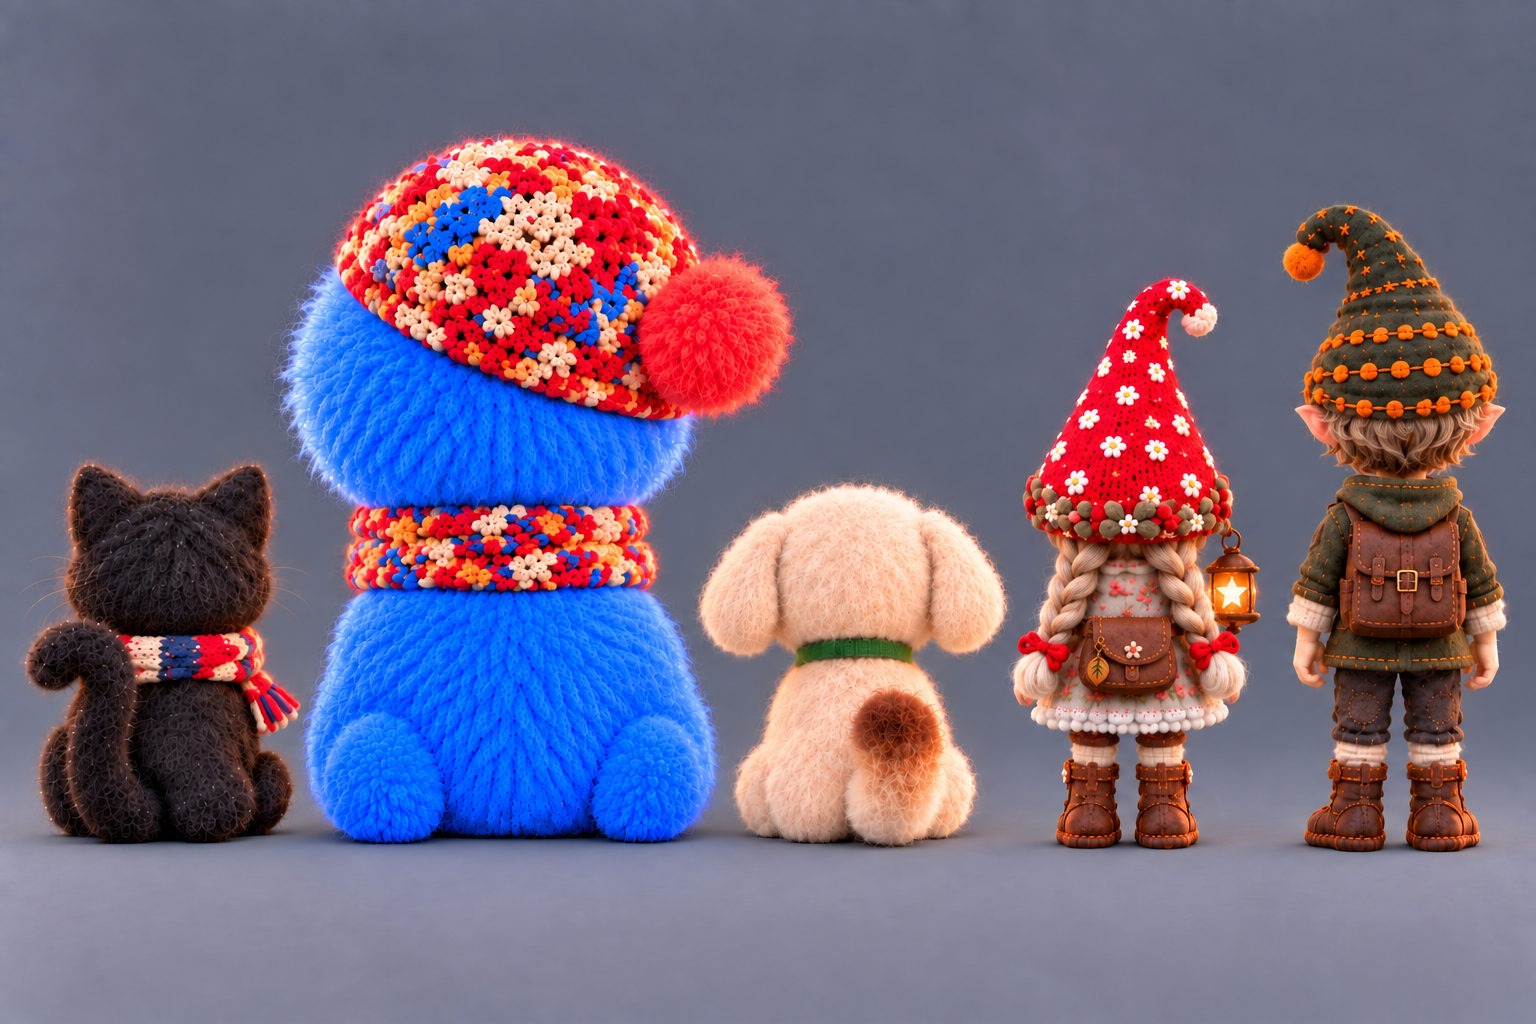
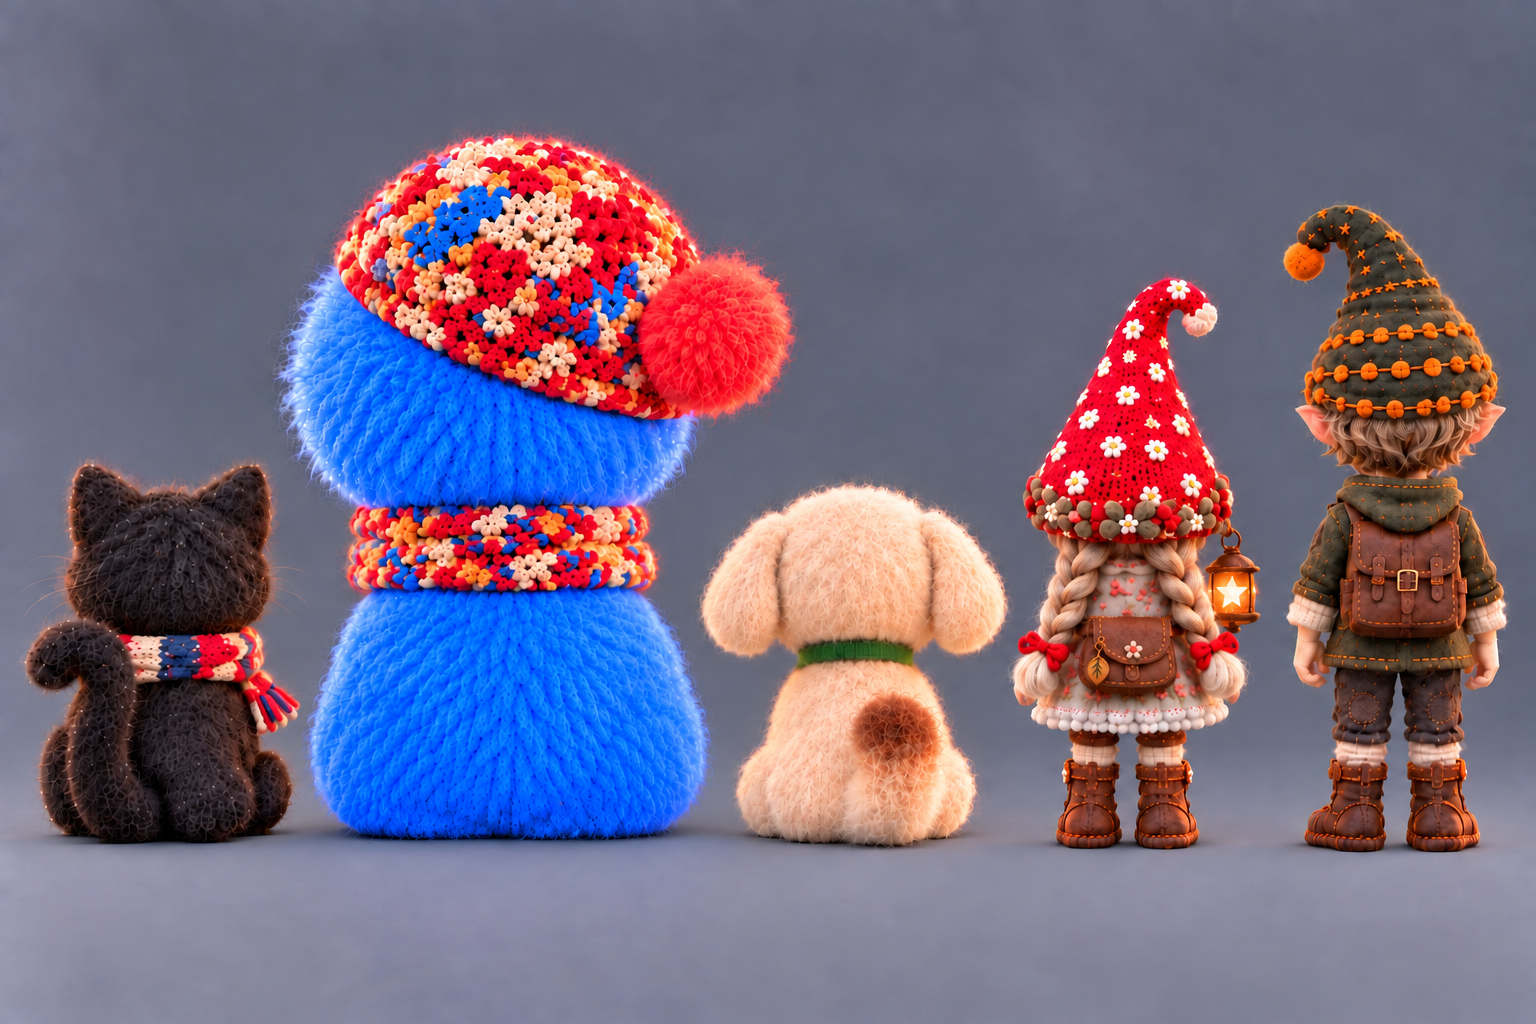
Refine character review wool detail and Lumi rear silhouette

diff --git a/character-review/index.html b/character-review/index.html
@@ -9,7 +9,7 @@
   <title>Character review</title>
   <link rel="icon" href="data:,">
   <link rel="stylesheet" href="review.css">
-  <script src="review.js?v=20261002-five-gnomes-v3" defer></script>
+  <script src="review.js?v=20261002-detail-v4" defer></script>
 </head>
 <body>
   <main class="review">
@@ -19,13 +19,13 @@
         <span class="count" id="view-count" aria-label="Image 1 of 8" aria-live="polite" aria-atomic="true">1 / 8</span>
       </div>
       <div class="actions">
-        <a id="original-link" href="images/front.png?v=20261002-five-gnomes-v3" target="_blank" rel="noopener">Original image</a>
-        <a id="download-link" href="images/front.png?v=20261002-five-gnomes-v3" download="front.png">Download</a>
+        <a id="original-link" href="images/front.png?v=20261002-detail-v4" target="_blank" rel="noopener">Original image</a>
+        <a id="download-link" href="images/front.png?v=20261002-detail-v4" download="front.png">Download</a>
       </div>
     </header>
 
     <button class="image-button" id="enlarge-button" type="button" aria-label="Enlarge front view of all five characters" aria-haspopup="dialog">
-      <img id="main-image" src="images/front.png?v=20261002-five-gnomes-v3" width="1536" height="1024" alt="Lumi, Kitty, Doggy, Nomie and Jack together, viewed from the front, in their current default outfits." fetchpriority="high">
+      <img id="main-image" src="images/front.png?v=20261002-detail-v4" width="1536" height="1024" alt="Lumi, Kitty, Doggy, Nomie and Jack together, viewed from the front, in their current default outfits." fetchpriority="high">
       <span class="image-hint">Enlarge</span>
     </button>
     <p id="image-status" class="status" role="status" aria-live="polite"></p>
@@ -64,7 +64,7 @@
         </div>
       </header>
       <div class="zoom-area" id="zoom-area" tabindex="0" aria-label="Enlarged image. When zoomed, scroll to inspect it.">
-        <img id="dialog-image" src="images/front.png?v=20261002-five-gnomes-v3" width="1536" height="1024" alt="Lumi, Kitty, Doggy, Nomie and Jack together, viewed from the front, in their current default outfits.">
+        <img id="dialog-image" src="images/front.png?v=20261002-detail-v4" width="1536" height="1024" alt="Lumi, Kitty, Doggy, Nomie and Jack together, viewed from the front, in their current default outfits.">
       </div>
     </div>
   </dialog>

diff --git a/character-review/review.js b/character-review/review.js
@@ -22,7 +22,7 @@ const zoomButton = byId('zoom-button');
 let currentIndex = 0;
 let enlarged = false;
 
-const imageRevision = '20261002-five-gnomes-v3';
+const imageRevision = '20261002-detail-v4';
 const imageURL = view => `images/${view.id}.png?v=${imageRevision}`;
 const imageAlt = view => `Lumi, Kitty, Doggy, Nomie and Jack together, viewed ${view.description}, in their current default outfits.`;
 
